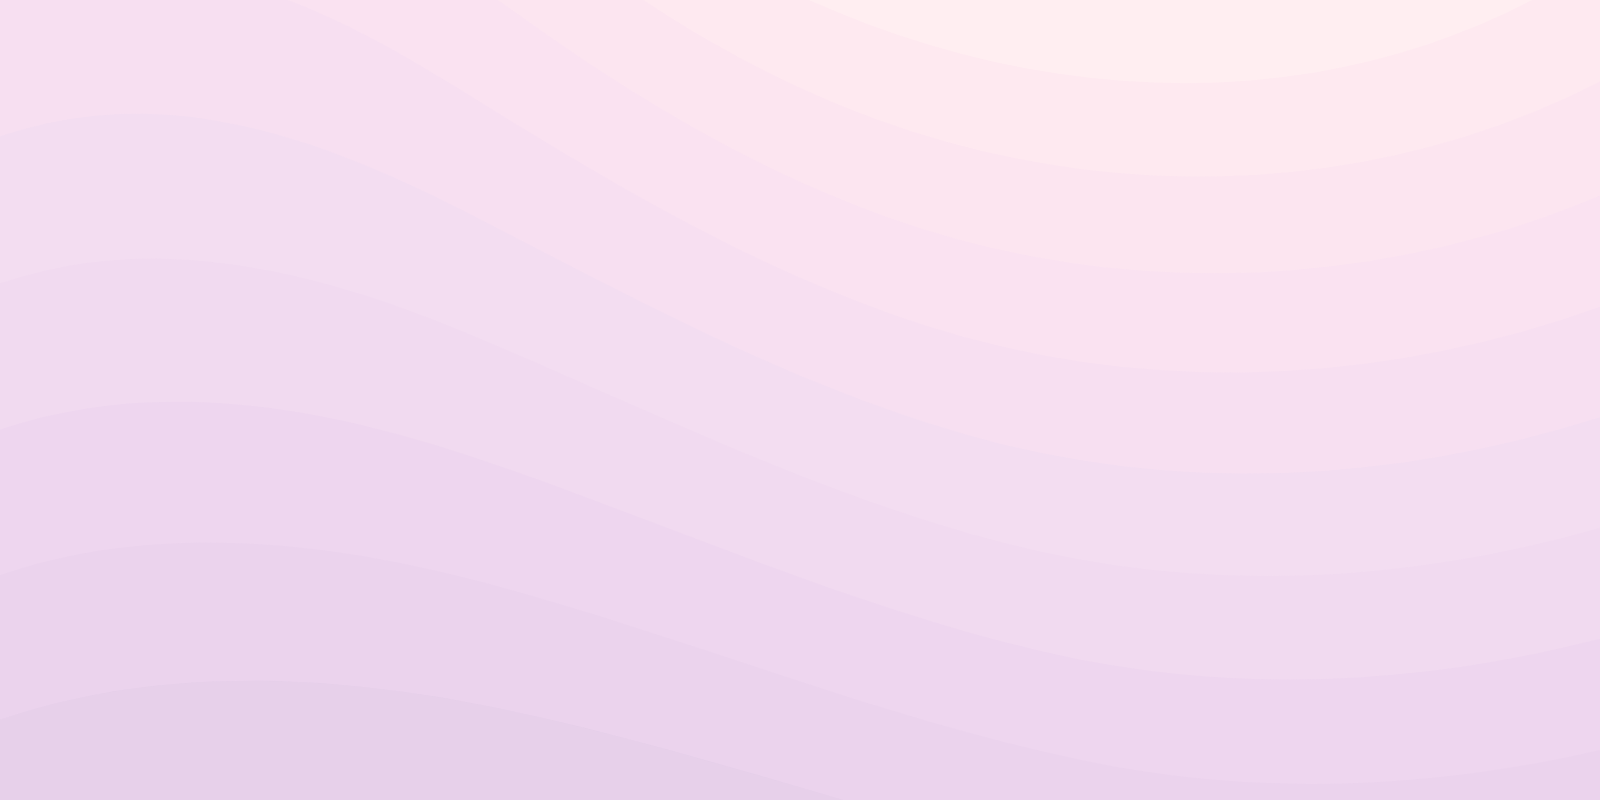
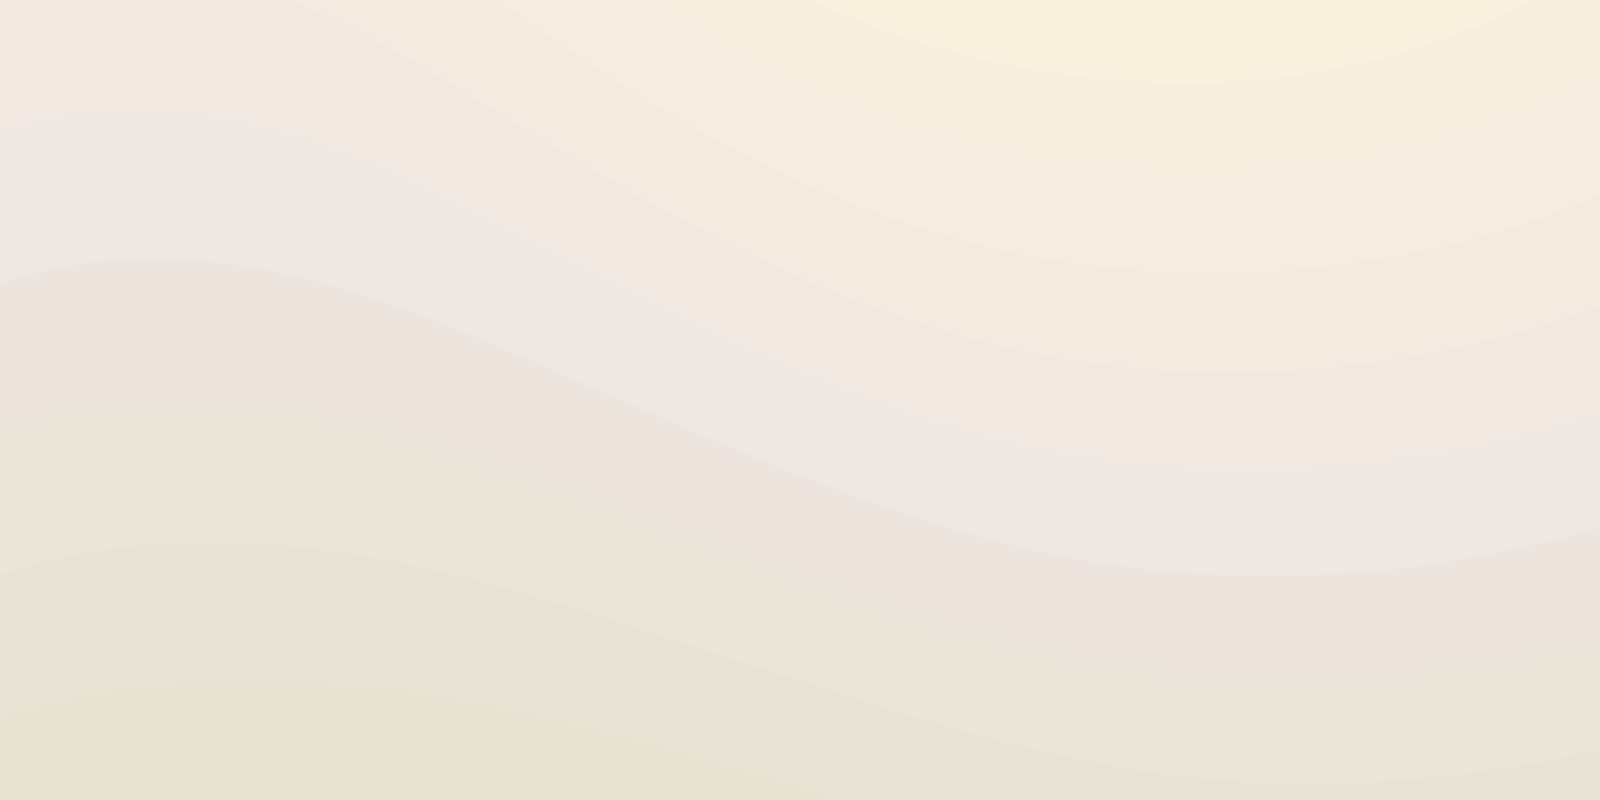
Color Updated

Changed region(s): [[0.0, 0.6562, 1.0, 1.0]]

diff --git a/lib/dasboard/dashboard.dart b/lib/dasboard/dashboard.dart
@@ -195,9 +195,7 @@ class _DashboardScreenState extends State<DashboardScreen> {
     if (upcomingMedicine > 12 && upcomingMedicine != 24) {
       upcomingMedicine -= 12;
       upcomingMedicineAmPm = '${upcomingMedicine} PM';
-    }
-   
-    else if (upcomingMedicine == 24) {
+    } else if (upcomingMedicine == 24) {
       upcomingMedicineAmPm = '${upcomingMedicine - 12} AM';
     } else {
       upcomingMedicineAmPm = '${upcomingMedicine} AM';
@@ -214,24 +212,32 @@ class _DashboardScreenState extends State<DashboardScreen> {
         child: Column(
           children: [
             SizedBox(height: 120, child: DashboardAppbar()),
-            SizedBox(height: 20,),
+            SizedBox(
+              height: 20,
+            ),
             Container(
               width: 200,
-              child: Center(child: Text('DASHBOARD',style: siz30White(),)),
+              child: Center(
+                  child: Text(
+                'DASHBOARD',
+                style: siz30White(),
+              )),
               decoration: BoxDecoration(
-                color:  Color(0xff008070),
+                color: Color(0xff008070),
                 borderRadius: BorderRadius.circular(16),
               ),
             ),
-            SizedBox(height: 30,),
+            SizedBox(
+              height: 30,
+            ),
             Stack(
               children: [
                 Container(
                   height: 50,
                   width: 330,
                   decoration: BoxDecoration(
-                    //  border: Border.all(color: Colors.black54, width: 1),
-                      color:  Color(0x91008081),
+                      //  border: Border.all(color: Colors.black54, width: 1),
+                      color: Color(0x91008081),
                       borderRadius: BorderRadius.circular(10)),
                 ),
                 Positioned(
@@ -257,7 +263,8 @@ class _DashboardScreenState extends State<DashboardScreen> {
                         ),
                         Text(
                           "Next Medicine At",
-                          style: siz20Black(),),
+                          style: siz20Black(),
+                        ),
                         SizedBox(
                           width: 12,
                         ),
@@ -280,17 +287,17 @@ class _DashboardScreenState extends State<DashboardScreen> {
                                       return Text(
                                         sortedList.length > 0
                                             ? upcomingMedicineAmPm
-                                            : 'wait',style:size20White(),
+                                            : 'wait',
+                                        style: size20White(),
                                       );
                                     }
                                   },
                                 ),
                               ),
-
                               decoration: BoxDecoration(
                                 border: Border.all(
                                     color: Colors.black26, width: 0.9),
-                                color:  Color(0xff008081),
+                                color: Color(0xff008081),
                                 borderRadius: BorderRadius.circular(12),
                               ),
                             ),
@@ -305,16 +312,15 @@ class _DashboardScreenState extends State<DashboardScreen> {
                     ))
               ],
             ),
-           SizedBox(height: 20,),
-
+            SizedBox(
+              height: 20,
+            ),
             Container(
               //   margin: EdgeInsets.only(left: 20, top: 18,right: 20),
               child: Column(
                 crossAxisAlignment: CrossAxisAlignment.center,
                 mainAxisAlignment: MainAxisAlignment.center,
                 children: [
-
-
                   Container(
                     margin: EdgeInsets.all(5),
                     child: GridView.builder(
@@ -326,7 +332,6 @@ class _DashboardScreenState extends State<DashboardScreen> {
                         mainAxisSpacing: 2.0,
                       ),
                       itemCount: 5,
-
                       itemBuilder: (context, index) {
                         return InkWell(
                           splashColor: Color(0x91008081),
@@ -446,66 +451,64 @@ class _DashboardScreenState extends State<DashboardScreen> {
                                               ],
                                             )
                                           : index == 3
-
-                                                  ? Column(
-                                                      mainAxisAlignment:
-                                                          MainAxisAlignment
-                                                              .center,
-                                                      children: [
-                                                        Image.asset(
-                                                          'assets/images/medicine_collection.png',
-                                                          width: 60,
-                                                          height: 60,
-                                                        ),
-                                                        SizedBox(
-                                                          height: 12,
-                                                        ),
-                                                        Text(
-                                                          'Medicines Data',
-                                                          style: TextStyle(
-                                                              color: Color(0xFF008081),
-                                                              fontSize: 15,
-                                                              fontWeight:
-                                                                  FontWeight
-                                                                      .bold),
-                                                        )
-                                                      ],
+                                              ? Column(
+                                                  mainAxisAlignment:
+                                                      MainAxisAlignment.center,
+                                                  children: [
+                                                    Image.asset(
+                                                      'assets/images/medicine_collection.png',
+                                                      width: 60,
+                                                      height: 60,
+                                                    ),
+                                                    SizedBox(
+                                                      height: 12,
+                                                    ),
+                                                    Text(
+                                                      'Medicines Data',
+                                                      style: TextStyle(
+                                                          color:
+                                                              Color(0xFF008081),
+                                                          fontSize: 15,
+                                                          fontWeight:
+                                                              FontWeight.bold),
                                                     )
-                                                  : index == 4
-                                                      ? Expanded(
-                                                        child: Column(
-                                                            mainAxisAlignment:
-                                                                MainAxisAlignment
-                                                                    .center,
-                                                            children: [
-                                                              Image.asset(
-                                                                'assets/images/bmi_calculator.png',
-                                                                width: 60,
-                                                                height: 60,
-                                                              ),
-                                                              SizedBox(
-                                                                height: 12,
-                                                              ),
-                                                              Text(
-                                                                'BMI Calculator',
-                                                                style: TextStyle(
-                                                                    color: Color(0xFF008081),
-                                                                    fontSize: 15,
-                                                                    fontWeight:
-                                                                        FontWeight
-                                                                            .bold),
-                                                              )
-                                                            ],
+                                                  ],
+                                                )
+                                              : index == 4
+                                                  ? Expanded(
+                                                      child: Column(
+                                                        mainAxisAlignment:
+                                                            MainAxisAlignment
+                                                                .center,
+                                                        children: [
+                                                          Image.asset(
+                                                            'assets/images/bmi_calculator.png',
+                                                            width: 60,
+                                                            height: 60,
                                                           ),
-                                                      )
-                                                      : Text('None'),
+                                                          SizedBox(
+                                                            height: 12,
+                                                          ),
+                                                          Text(
+                                                            'BMI Calculator',
+                                                            style: TextStyle(
+                                                                color: Color(
+                                                                    0xFF008081),
+                                                                fontSize: 15,
+                                                                fontWeight:
+                                                                    FontWeight
+                                                                        .bold),
+                                                          )
+                                                        ],
+                                                      ),
+                                                    )
+                                                  : Text('None'),
                             ),
                           ),
                         );
                       },
                     ),
                   ),
-
                 ],
               ),
             ),

diff --git a/lib/User_Profile/screens/UserProfile.dart b/lib/User_Profile/screens/UserProfile.dart
@@ -82,9 +82,6 @@ class _UserProfileState extends State<UserProfile> {
                 SizedBox(width: 16.0),
                 UserDetailCard(
                     label: "Gender", value: userInfo['gender'] ?? "N/A"),
-                SizedBox(width: 16.0),
-                UserDetailCard(
-                    label: "Location", value: userInfo['city'] ?? "N/A"),
               ],
             ),
           ],
@@ -153,7 +150,9 @@ class _UserProfileState extends State<UserProfile> {
         title: Text(
           "PROFILE",
           style: TextStyle(
-              color: Colors.teal.shade600, fontWeight: FontWeight.w400, fontSize: 20),
+              color: Colors.teal.shade600,
+              fontWeight: FontWeight.w400,
+              fontSize: 20),
         ),
         backgroundColor: Colors.white,
         elevation: 0,

diff --git a/lib/OnBoard/first_Onboard.dart b/lib/OnBoard/first_Onboard.dart
@@ -9,16 +9,16 @@ class OnBoard extends StatelessWidget {
     return [
       PageViewModel(
 
-        image:Image.asset('assets/images/doctor.png'),
+        image:Image.asset('assets/images/health_records.png'),
         title: "Get medical Consultation",
-        body: "Commmunicate with the finest doctors in your area",
+        body: "Store Health Records",
           decoration: PageDecoration(
           )
 
       ),
       PageViewModel(
         image:Image.asset('assets/images/onboard_3.png'),
-        title: "Medication Reminders",
+        title: "Medicine Reminders",
         body: "Stay on top of your health effortlessly with our Medication Reminders",
 
       ),
